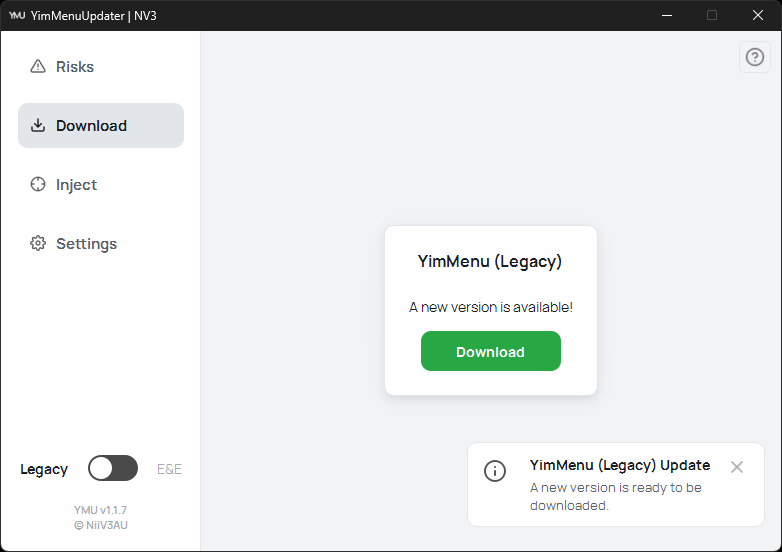
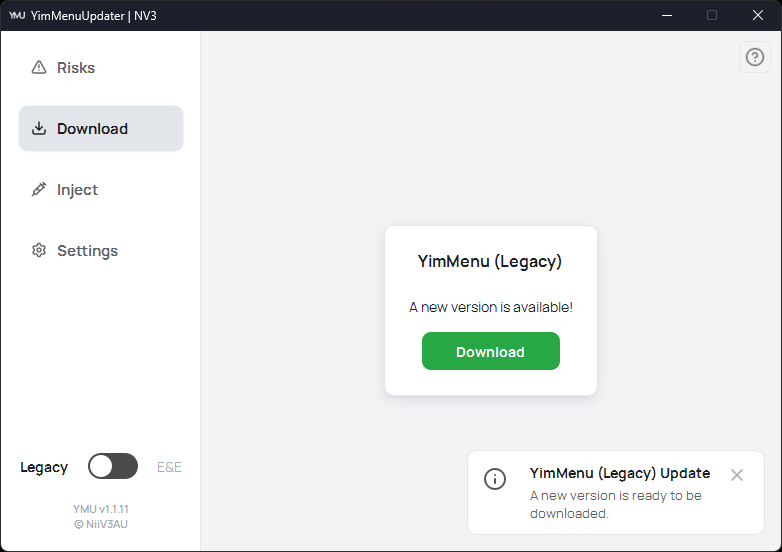
chore: update screenshots to v1.1.11; update VirusTotal link; remove nested and therefore not working "[!NOTE]" syntax in the project evolution section

diff --git a/README.md b/README.md
@@ -8,7 +8,7 @@ The modern, all-in-one launchpad for YimMenu. **Always updated, always ready.**
 [![Latest Release](https://img.shields.io/github/v/release/NiiV3AU/YMU?style=for-the-badge&logo=github&logoColor=white&labelColor=181717&color=gray)](https://github.com/NiiV3AU/YMU/releases/latest)
 [![Changelog](https://img.shields.io/badge/Changelog-CHANGELOG.md-gray?style=for-the-badge&logo=markdown&logoColor=white&labelColor=181717)](CHANGELOG.md)
 [![Downloads](https://img.shields.io/github/downloads/NiiV3AU/YMU/total?style=for-the-badge&logo=github&logoColor=white&labelColor=181717&color=gray)](https://github.com/NiiV3AU/YMU/releases)
-[![VirusTotal Scan](https://img.shields.io/badge/VirusTotal-View_Scan_Report-gray?style=for-the-badge&logo=virustotal&logoColor=white&labelColor=394EFF)](https://www.virustotal.com/gui/file/707a8d841a39c42eacb1900d025cbcc08243ddd62c571bb107e0a9de5930ec8d)
+[![VirusTotal Scan](https://img.shields.io/badge/VirusTotal-View_Scan_Report-gray?style=for-the-badge&logo=virustotal&logoColor=white&labelColor=394EFF)](https://www.virustotal.com/gui/file/0e6f442e56b757e387c2d22c2885136868a4b8d0d7856e7eb620bc1df32ebab2)
 
 ![YMU Showcase](https://github.com/user-attachments/assets/a017affb-f48f-44fe-be75-222d2e3477dc?raw=true)
 
@@ -57,7 +57,7 @@ Download and run `YMU.exe` directly from the latest release. No installer requir
 
 <div align="center">
   <img src="screenshots/Download.webp" alt="YMU Dark Theme: Download" width="32%"/>
-  <img src="screenshots/Launch.webp" alt="YMU Dark Theme: Inject" width="32%"/>
+  <img src="screenshots/Inject.webp" alt="YMU Dark Theme: Inject" width="32%"/>
   <img src="screenshots/Settings.webp" alt="YMU Dark Theme: Settings" width="32%"/>
 </div>
 
@@ -65,7 +65,7 @@ Download and run `YMU.exe` directly from the latest release. No installer requir
 
 <div align="center">
   <img src="screenshots/Download_Light.webp" alt="YMU Light Theme: Download" width="32%"/>
-  <img src="screenshots/Launch_Light.webp" alt="YMU Light Theme: Inject" width="32%"/>
+  <img src="screenshots/Inject_Light.webp" alt="YMU Light Theme: Inject" width="32%"/>
   <img src="screenshots/Settings_Light.webp" alt="YMU Light Theme: Settings" width="32%"/>
 </div>
 
@@ -76,7 +76,6 @@ Download and run `YMU.exe` directly from the latest release. No installer requir
 <details>
 <summary><b>A visual look back at earlier versions (v1.0.0 – v1.0.9)</b></summary>
 
-> [!NOTE]
 > For the complete, chronological release history and technical change notes, see **[CHANGELOG.md](CHANGELOG.md)**.
 
 ### v1.0.9
